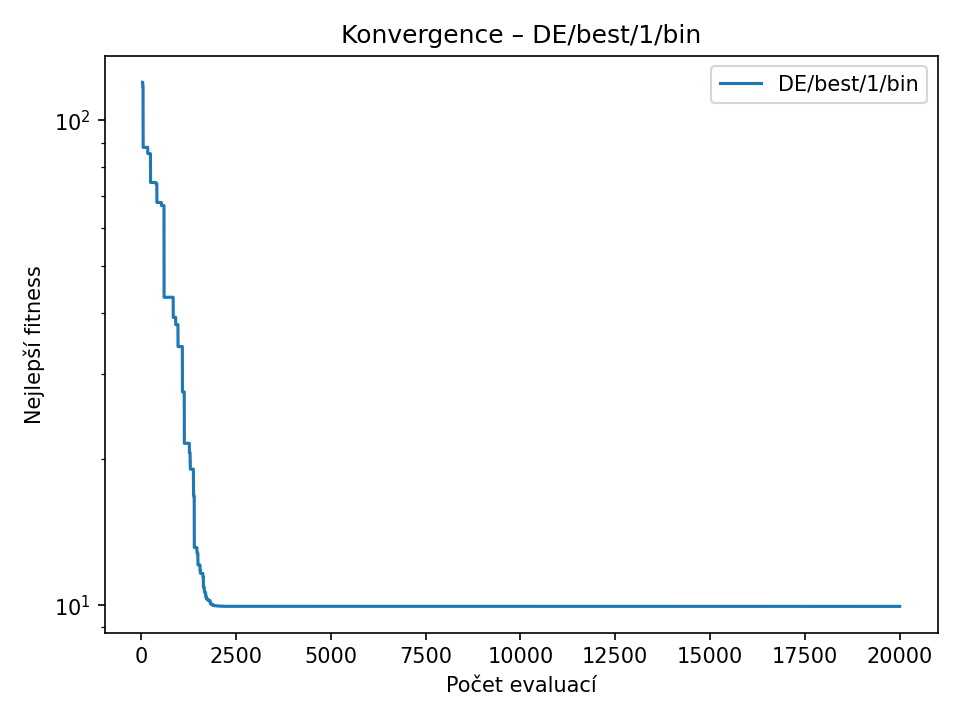
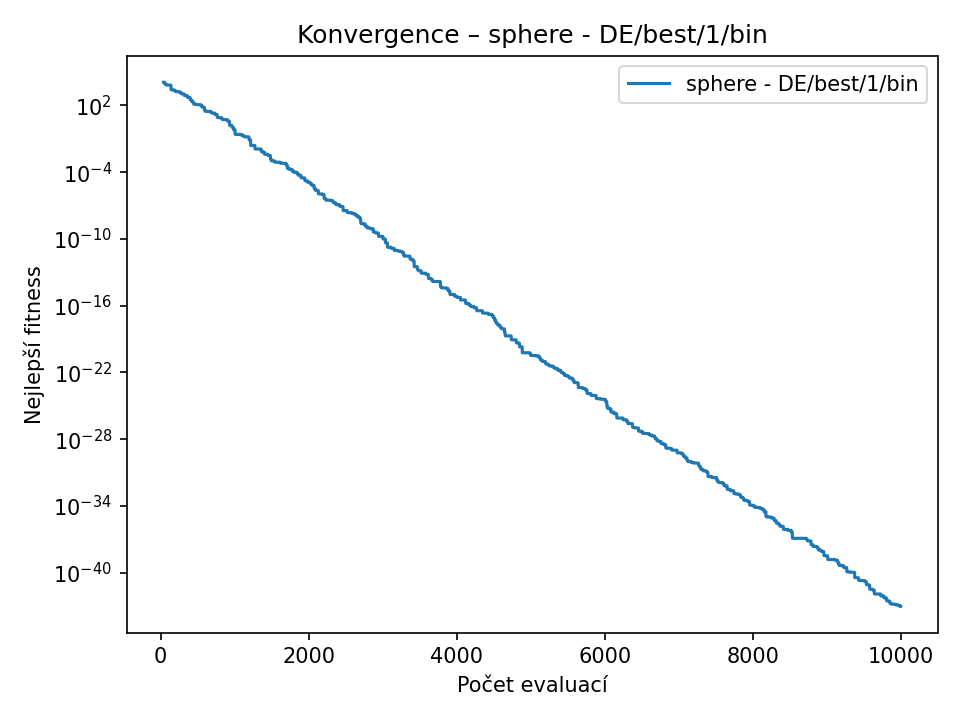
Refactor differential evolution implementation to support multiple optimization functions and update main execution logic

diff --git a/diferencialni_evoluce/main.py b/diferencialni_evoluce/main.py
@@ -2,47 +2,69 @@ from de_core import DifferentialEvolution
 import numpy as np
 import math
 
-# ---------- Testovací funkce ----------
+
 def sphere(x):
     return np.sum(x * x)
+
 
 def rastrigin(x):
     return 10 * len(x) + np.sum(x * x - 10 * np.cos(2 * math.pi * x))
 
 
+def rosenbrock(x):
+    return sum(100 * (x[1:] - x[:-1] ** 2) ** 2 + (1 - x[:-1]) ** 2)
+
+def schwefel(x):
+    return 418.9829 * len(x) - np.sum(x * np.sin(np.sqrt(np.abs(x))))
+
+
+def get_bounds(func):
+    if func.__name__ == "sphere":
+        return -100, 100
+    elif func.__name__ == "rastrigin":
+        return -5.12, 5.12
+    elif func.__name__ == "rosenbrock":
+        return -2.048, 2.048
+    elif func.__name__ == "schwefel":
+        return -500, 500
+    else:
+        return -10, 10
+
+
 if __name__ == "__main__":
     dim = 10
-    bounds = (-5.12, 5.12)
-    max_evals = 20000
+    func_to_use = schwefel
+    bounds = get_bounds(func_to_use)
+    max_evals = 10000
     pop = 40
 
     # 1) DE/rand/1/bin
     de_rand = DifferentialEvolution(
-        func=sphere, dim=dim, bounds=bounds,
+        func=func_to_use, dim=dim, bounds=bounds,
         pop_size=pop, max_evals=max_evals,
         strategy="rand1bin", F=0.5, CR=0.8
     )
     best, best_fit, log = de_rand.run()
-    print(f"[Sphere] DE/rand/1/bin: best_fit={best_fit:.3e}")
-    de_rand.plot_convergence("DE/rand/1/bin", "charts/sphere_rand1bin.png")
+    print(f"[{func_to_use.__name__}] DE/rand/1/bin: best_fit={best_fit:.3e}")
+    de_rand.plot_convergence(f"{func_to_use.__name__} - DE/rand/1/bin", f"charts/{func_to_use.__name__}_rand1bin.png")
 
     # 2) DE/best/1/bin
     de_best = DifferentialEvolution(
-        func=sphere, dim=dim, bounds=bounds,
+        func=func_to_use, dim=dim, bounds=bounds,
         pop_size=pop, max_evals=max_evals,
         strategy="best1bin", F=0.5, CR=0.8
     )
     best, best_fit, log = de_best.run()
-    print(f"[Sphere] DE/best/1/bin: best_fit={best_fit:.3e}")
-    de_best.plot_convergence("DE/best/1/bin", "charts/sphere_best1bin.png")
+    print(f"[{func_to_use.__name__}] DE/best/1/bin: best_fit={best_fit:.3e}")
+    de_best.plot_convergence(f"{func_to_use.__name__} - DE/best/1/bin", f"charts/{func_to_use.__name__}_best1bin.png")
 
     # 3) jDE (rand/1)
     de_jde = DifferentialEvolution(
-        func=sphere, dim=dim, bounds=bounds,
+        func=func_to_use, dim=dim, bounds=bounds,
         pop_size=pop, max_evals=max_evals,
         strategy="rand1bin", F=0.5, CR=0.9,
         jde=True, tau1=0.1, tau2=0.1
     )
     best, best_fit, log = de_jde.run()
-    print(f"[Sphere] jDE (rand/1): best_fit={best_fit:.3e}")
-    de_jde.plot_convergence("jDE (rand/1)", "charts/sphere_jde.png")
+    print(f"[{func_to_use.__name__}] jDE (rand/1): best_fit={best_fit:.3e}")
+    de_jde.plot_convergence(f"{func_to_use.__name__} - jDE (rand/1)", f"charts/{func_to_use.__name__}_jde.png")

diff --git a/diferencialni_evoluce/de_core.py b/diferencialni_evoluce/de_core.py
@@ -7,15 +7,7 @@ class DifferentialEvolution:
     def __init__(self, func, dim, bounds, pop_size=30, max_evals=10000,
                  strategy="rand1bin", F=0.5, CR=0.8,
                  jde=False, tau1=0.1, tau2=0.1, seed=42):
-        """
-        Diferenciální evoluce (DE)
-        func      : optimalizovaná funkce
-        dim       : počet dimenzí
-        bounds    : (lower, upper) hranice proměnných
-        strategy  : 'rand1bin' | 'best1bin'
-        jde       : aktivace self-adaptivní varianty jDE
-        tau1, tau2: pravděpodobnosti změny F a CR
-        """
+
         self.func = func
         self.dim = dim
         self.lower, self.upper = bounds
